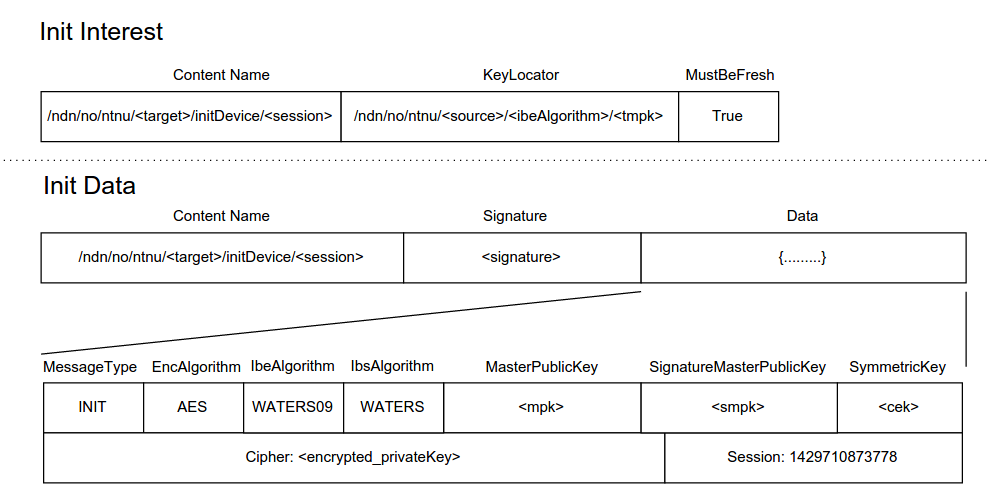
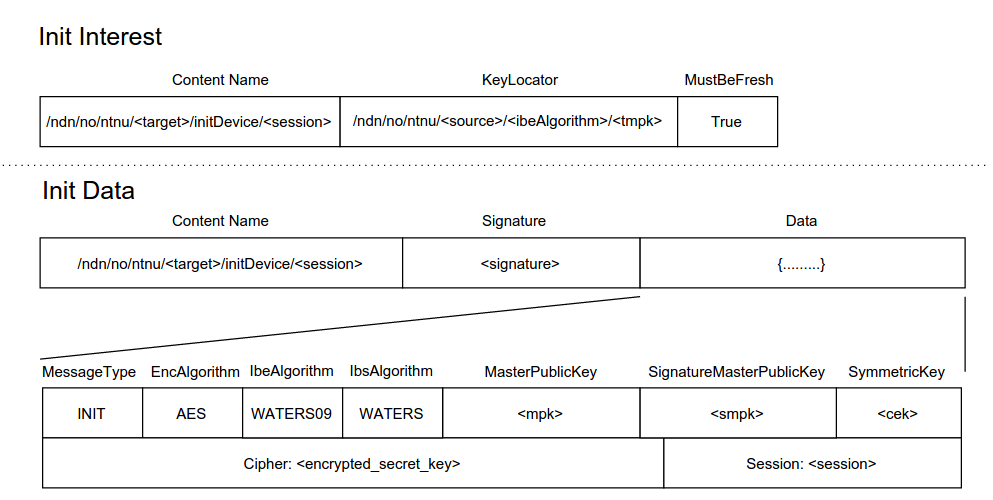
chp3-3: implementation

diff --git a/report/chapter3-3.tex b/report/chapter3-3.tex
@@ -91,13 +91,16 @@ Application flow explained in~\autoref{sensor-application}.
 The implementation does not deal with sensor \gls{data} retrieval from actual sensor, nor deal with sending instructions from devices to each other, but rather focuses on the trust and security protocols between devices in a local network.
 The code is divided into several pieces shown in~\autoref{fig:code-topology}.
 
-\todo{explain better}
-\begin{itemize}
-  \item Device code~\cite[device.py]{garseg15}
-  \item \gls{PKG} code~\cite[publicKeyGenerator.py]{garseg15}
-  \item IdentityBasedCrypto code~\cite[identityBasedCrypto.py]{garseg15}
-  \item Main code~\cite[application.py]{garseg15}
-\end{itemize}
+The Device class~\cite[device.py]{garseg15} implements the role of a device that can both express \gls{interest} and offer \gls{data}.
+
+The PKG class~\cite[publicKeyGenerator.py]{garseg15} implements the role of a \gls{PKG}.
+
+IdentityBasedCrypto~\cite[identityBasedCrypto.py]{garseg15} implements two \gls{IBE} schemes and one \gls{IBS} scheme. 
+\begin{description}
+  \item[Waters05]~\cite{DBLP:journals/iacr/Naccache05} that is a variant of Brent Waters \gls{IBE} scheme~\cite{DBLP:journals/iacr/Waters04}, but with smaller key size, hence more practical.
+  \item[Waters09]~\cite{DBLP:conf/crypto/Waters09} that is also a fully secure implementation of \gls{IBE} scheme.
+  \item[Waters]~\cite{DBLP:journals/iacr/Waters04} that is a implementation of \gls{IBS} scheme.
+\end{description}
 
 \begin{figure}[ht]
   \centering
@@ -106,13 +109,6 @@ The code is divided into several pieces shown in~\autoref{fig:code-topology}.
   \label{fig:code-topology}
 \end{figure}
 
-The code in~\cite[identityBasedCrypto.py]{garseg15} implements two \gls{IBE} schemes and one \gls{IBS} scheme. 
-\begin{description}
-  \item[Waters05]~\cite{DBLP:journals/iacr/Naccache05} that is a variant of Brent Waters \gls{IBE} scheme~\cite{DBLP:journals/iacr/Waters04}, but with smaller key size, hence more practical.
-  \item[Waters09]~\cite{DBLP:conf/crypto/Waters09} that is also a fully secure implementation of \gls{IBE} scheme.
-  \item[Waters]~\cite{DBLP:journals/iacr/Waters04} that is a implementation of \gls{IBS} scheme.
-\end{description}
-
 \subsection{Access Control}
 In~\autoref{access_control} I present a possible solution for access control.
 This is however not implemented in the application, because it is considered too high workload for this thesis.
@@ -120,31 +116,44 @@ This is however not implemented in the application, because it is considered too
 \subsection{Packet Design}
 The packet format is designed with Google Protocol Buffers, which is a language-neutral, platform-neutral, extensible mechanism for serializing structured \gls{data}.\footnote{Google Protocol Buffers - https://developers.google.com/protocol-buffers/}
 Initialization packets have the structure presented in~\autoref{fig:init_interest-data}.
-Initially the idea was to have the \textit{\gls{TMPK}} appended to the content \gls{name}. 
+Initially the idea was to have the \gls{TMPK} appended to the content \gls{name}. 
 However, I experienced a problem where the Init \gls{data} never arrived at destination node. 
 After some research in \texttt{ndn-cxx} documentation I found that the packets have a \texttt{MAX\_NDN\_PACKET\_SIZE} of 8800 bytes and the Init \gls{data} exceeded this limit and reached 8904 bytes.
 Because the \gls{TMPK} is approximately 2\gls{KB} and was appended to the content \gls{name} in the \gls{interest}, the \gls{data} response off course had to have the same content \gls{name}, hence 2\gls{KB} overhead in the \gls{name}. 
 The \gls{TMPK} can as easily be appended to the KeyLocator \gls{name}, hence the \gls{data} response can be 2\gls{KB} less, resulting to a 6866 bytes Init \gls{data} packet.
 
 Sensor packets have the structure presented in~\autoref{fig:sensor_interest-data}.
-The code can be reviewed i~\cite[messageBuf.proto]{garseg15}.
+The code can be reviewed in~\cite[messageBuf.proto]{garseg15}.
 \begin{description}
-	\item[Init \gls{interest}] - 
-  The initialization \gls{interest} seen in~\autoref{fig:init_interest-data}
+	\item[\texttt{Init} \gls{interest}] - 
+  The \texttt{Init} \gls{interest} can be seen in~\autoref{fig:init_interest-data} and consist of three fields: Content Name, KeyLocator and MustBeFresh.
   KeyLocator can be of type \gls{name}. 
   As described in the \gls{NDN} Packet Format~\cite{ndnpacketformat}, generally this field can be used to specify where to download the certificate used to sign the \gls{interest}.
   However, in the trust model I use this field to publish the requesters \gls{name}, i.e. the requesters public key. 
   This is very useful when using \gls{IBE} and \gls{IBS}.
-	\item[Init \gls{data}] - 
-  The \gls{data} response the the initialization \gls{interest} contains \gls{data} with a structure defined in~\cite[messageBuf.proto]{garseg15} and illustrated in~\autoref{fig:init_interest-data}.
-  \todo{explain}
-	\item[Sensor \gls{interest}] -
-	As in the initialization \gls{interest} the KeyLocator field is used to define the ID\textsubscript{requester}. 
+	\item[\texttt{Init} \gls{data}] - 
+  The \gls{data} response to the \texttt{Init} \gls{interest} is illustrated in~\autoref{fig:init_interest-data}.
+	\item[\texttt{Sensor} \gls{interest}] -
+	As in the \texttt{Init} \gls{interest} the KeyLocator field is used to define the ID\textsubscript{requester}. 
   The packet is illustrated in~\autoref{fig:sensor_interest-data}.
-	\item[Sensor \gls{data}] - 
-  The \gls{data} response to the Sensor \gls{interest} uses the same structure as the initialization \gls{data}. 
+	\item[\texttt{Sensor} \gls{data}] - 
+  The \gls{data} response to the \texttt{Sensor} \gls{interest} uses the same structure as the \texttt{Init} \gls{data}. 
   It is illustrated in~\autoref{fig:sensor_interest-data}
 \end{description}
+
+The \texttt{Init} and \texttt{Sensor} \gls{data} responses in the \gls{HSS} have a structure that is defined in~\cite[messageBuf.proto]{garseg15}.
+The fields are:
+\begin{itemize}
+  \item \texttt{MessageType} is an \texttt{enum} and can be either Init or Sensor.
+  \item \texttt{EncAlgorithm} is an \texttt{enum} and represents which type of encryption scheme is used on the content.
+  \item \texttt{IbeAlgorithm} is an \texttt{enum} and represents which type of \gls{IBE} scheme is used on the \gls{CEK}.
+  \item \texttt{IbsAlgorithm} is an \texttt{enum} and represents which type of \gls{IBS} scheme is used to sign the \gls{data}.
+  \item \texttt{MasterPublicKey} is the \gls{PKG}s public parameters used to do \gls{IBE}.
+  \item \texttt{SignatureMasterPublicKey} is the \gls{PKG}s public parameters used to do \gls{IBS}.
+  \item \texttt{SymmetricKey} is the symmetric key used to encrypt the content. The key is encrypted.
+  \item \texttt{Cipher} is the encrypted content.
+  \item \texttt{Session} is a nonce.
+\end{itemize}
 
 \begin{figure}[ht]
   \centering
@@ -244,7 +253,7 @@ The \gls{CEK} is a random $\mathbb{G}_T$ element (\autoref{ibe-secureness}), and
 
 \subsection{Performance}\label{ibc-performance}
 To be able to evaluate if \gls{IBC} is applicable to devices with small computation power and limited battery, it has to at least perform somewhat in the range of regular asymmetric encryption (read RSA), and signing. 
-Naccache suggested that if the prime $p$ is 1024-bit, the scheme would provide equivalent security as a RSA 1024-bit key.
+Naccache suggested that if the prime \gls{p} is 1024-bit, the scheme would provide equivalent security as a RSA 1024-bit key.
 For comparison reasons, the RSA key pair is therefore generated with the size of 1024-bit.
 In~\autoref{tbl:time_chart} the results from running different cryptographic methods on the computers listed in~\autoref{tbl:target_computers} are presented.
 

diff --git a/report/chapter3-2.tex b/report/chapter3-2.tex
@@ -147,7 +147,7 @@ Security analysis code in~\autoref{apx:scyther-analysis}
 I assume the following threat model:
 \begin{enumerate}
   \item An adversary might try to eavesdrop information.
-  \item An adversary might try to send bogus commands.
+  \item An adversary might try to send bogus commands (new, replay).
   \item Devices might be physically hijacked, e.g. theft of mobile.
 \end{enumerate}
 \todo{write more..}
@@ -187,7 +187,7 @@ Each device will obtain a secret key allocated by its superior \gls{PKG}, as exp
 With the concept from~\autoref{rendezvous_authentication} together with the \gls{PKG}s \gls{MPK}, you can trust that the device is authorized for the \gls{PKG}s trust domain. Hence all signed packets can be verified by anyone with the \gls{MPK}.
 In this setting, a verified signature acts as an assurance of authentication and integrity. 
 
-Every \gls{interest} has a timestamp attached to the \gls{name} (e.g. \path{/ndn/no/ntnu/device/name2/sensorPull/1429710873778}), i.e. milliseconds from \texttt{UTC 1970-01-01 00:00:00}, that can be used for protection against replay attack. 
+Every \gls{interest} has a timestamp attached to the \gls{name} (e.g. \path{/ndn/no/ntnu/device/name2/sensorPull/1429710873778}), i.e. milliseconds from \texttt{UTC} \texttt{1970-01-01} \texttt{00:00:00}, that can be used for protection against replay attack. 
 
 \subsection{Availability}
 This is a harder problem to solve.

diff --git a/report/glossary.tex b/report/glossary.tex
@@ -118,20 +118,20 @@ description={A dummy symbol }}
 \newglossaryentry{name}
 {
   name=\texttt{Name},
-  description={is the name of content related to a \texttt{Data} packet in NDN}
+  description={is the name of content related to a \gls{data} packet in NDN}
 }
 
 \newglossaryentry{interest}
 {
   name=\texttt{Interest},
-  description={is the packet sent from a node to another, requesting some content with a \texttt{Name}}
+  description={is the packet sent from a node to another, requesting some content with a \gls{name}}
 }
 
 
 \newglossaryentry{data}
 {
   name=\texttt{Data},
-  description={is the packet sent in response to an \texttt{Interest}}
+  description={is the packet sent in response to an \gls{interest}}
 }
 
 \newglossaryentry{gpa}
@@ -143,7 +143,7 @@ description={A dummy symbol }}
 \newglossaryentry{node}
 {
   name=node,
-  description={is referred to as a machine participating in a NDN network}
+  description={is referred to as a machine participating in a \gls{NDN} network}
 }
 
 \newglossaryentry{host}
@@ -167,5 +167,5 @@ description={A dummy symbol }}
 \newglossaryentry{synchronization_group}
 {
   name=synchronization group,
-  description={is group of nodes that synchronizes with a given URL}
+  description={is group of nodes that synchronizes with a given \gls{name}}
 }

diff --git a/report/chapter3-0.tex b/report/chapter3-0.tex
@@ -4,7 +4,7 @@ This chapter will present ChronoSync, and explaining what the \gls{FSM} is built
 \section{ChronoSync}\label{chronosync}
 Since \gls{NDN} provides multicast in the network layer as explained in~\autoref{fig:ndn-multicast}, we do not have to think of network load in the same way as in \gls{IP}.  
 To achieve distributed synchronization of a \gls{data}set, the \gls{NDN}-team has developed ChronoSync, a decentralized synchronization framework over \gls{NDN}. 
-ChronoSync assumes that a group of nodes knows the \gls{name} of a ``synchronization group'', e.g \path{/ndn/broadcast/FileSync-0.1/<group_room>/}.
+ChronoSync assumes that a group of nodes knows the \gls{name} of a \gls{synchronization_group}, e.g \path{/ndn/broadcast/FileSync-0.1/<group_room>/}.
 The synchronication application is built upon state digests, which is that each participating node stores a hash of its current \gls{data}set. 
 Each node in a ChronoSync application broadcasts its sync state in a Sync \gls{interest} (e.g. \path{/ndn/broadcast/FileSync-0.1/<group_room>/<state>}).
 When a node receives a Sync \gls{interest}, it will inspect the state of the \gls{interest}, and compare with its own state.

diff --git a/report/chapter3-1.tex b/report/chapter3-1.tex
@@ -82,7 +82,7 @@ The scheme is a modification of Waters' scheme, but with public parameters of ju
 Waters created a fully secure \gls{IBE} system with short parameters under \gls{simple_assumption} in 2009~\cite{DBLP:conf/crypto/Waters09}.
 
 The complexity assumptions is based on bilinear maps.
-Let $\mathbb{G}_1$ and $\mathbb{G}_2$ be groups of prime order $p$, and $g$ be a generator of $\mathbb{G}$. 
+Let $\mathbb{G}_1$ and $\mathbb{G}_2$ be groups of prime order \gls{p}, and $g$ be a generator of \gls{g}. 
 We say that $\mathbb{G}$ has a bilinear map $e : \mathbb{G}_1 \times \mathbb{G}_2 \to \mathbb{G}_T$ if $e$ is efficiently computable, $e$ is bilinear, i.e. $e(g^a, g^b) = e(g, g)^{ab}$ (for all $a$ and $b$), and $e$ is non-degenerate, i.e. $e(g,g)\neq 1$.
 For more details about bilinear maps and~\gls{BDH} used in \gls{IBE}, the reader is encouraged to take a look at~\cite{DBLP:conf/crypto/BonehF01,DBLP:journals/iacr/Naccache05}.
 
